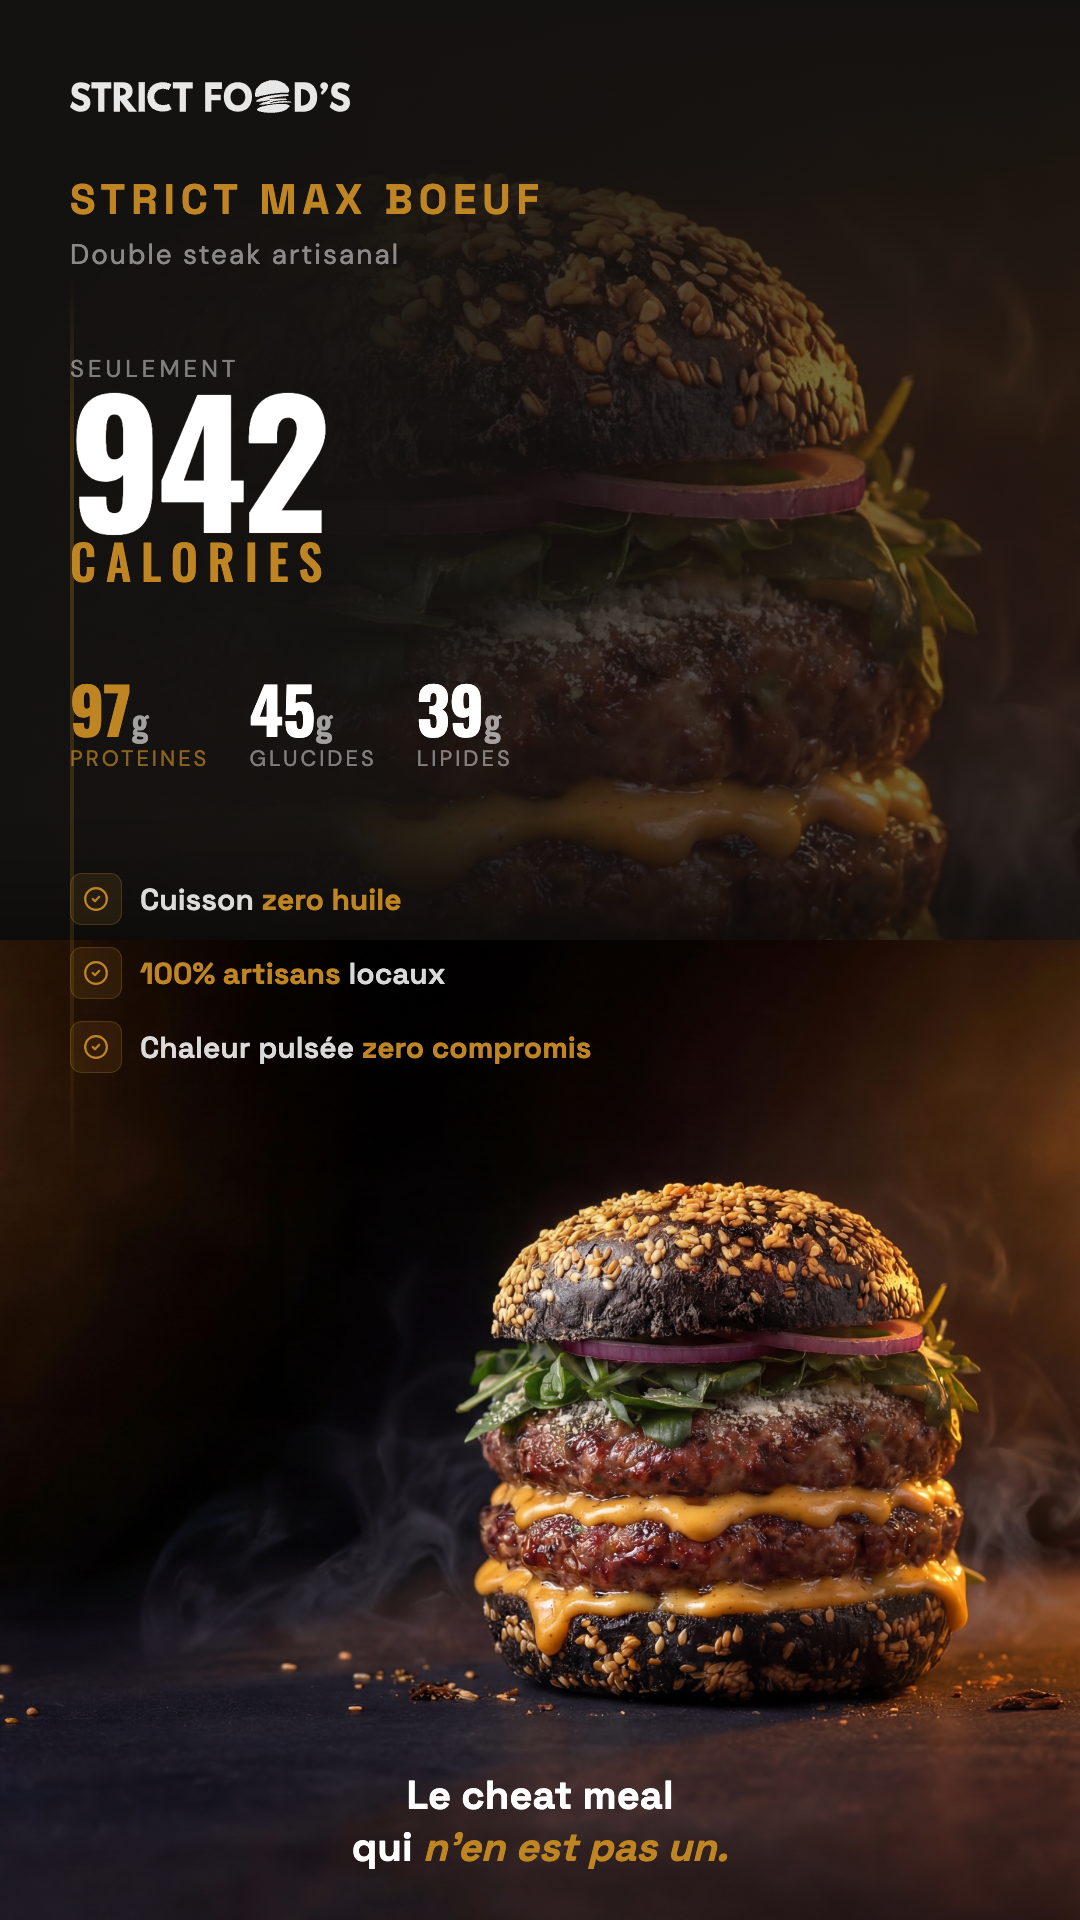
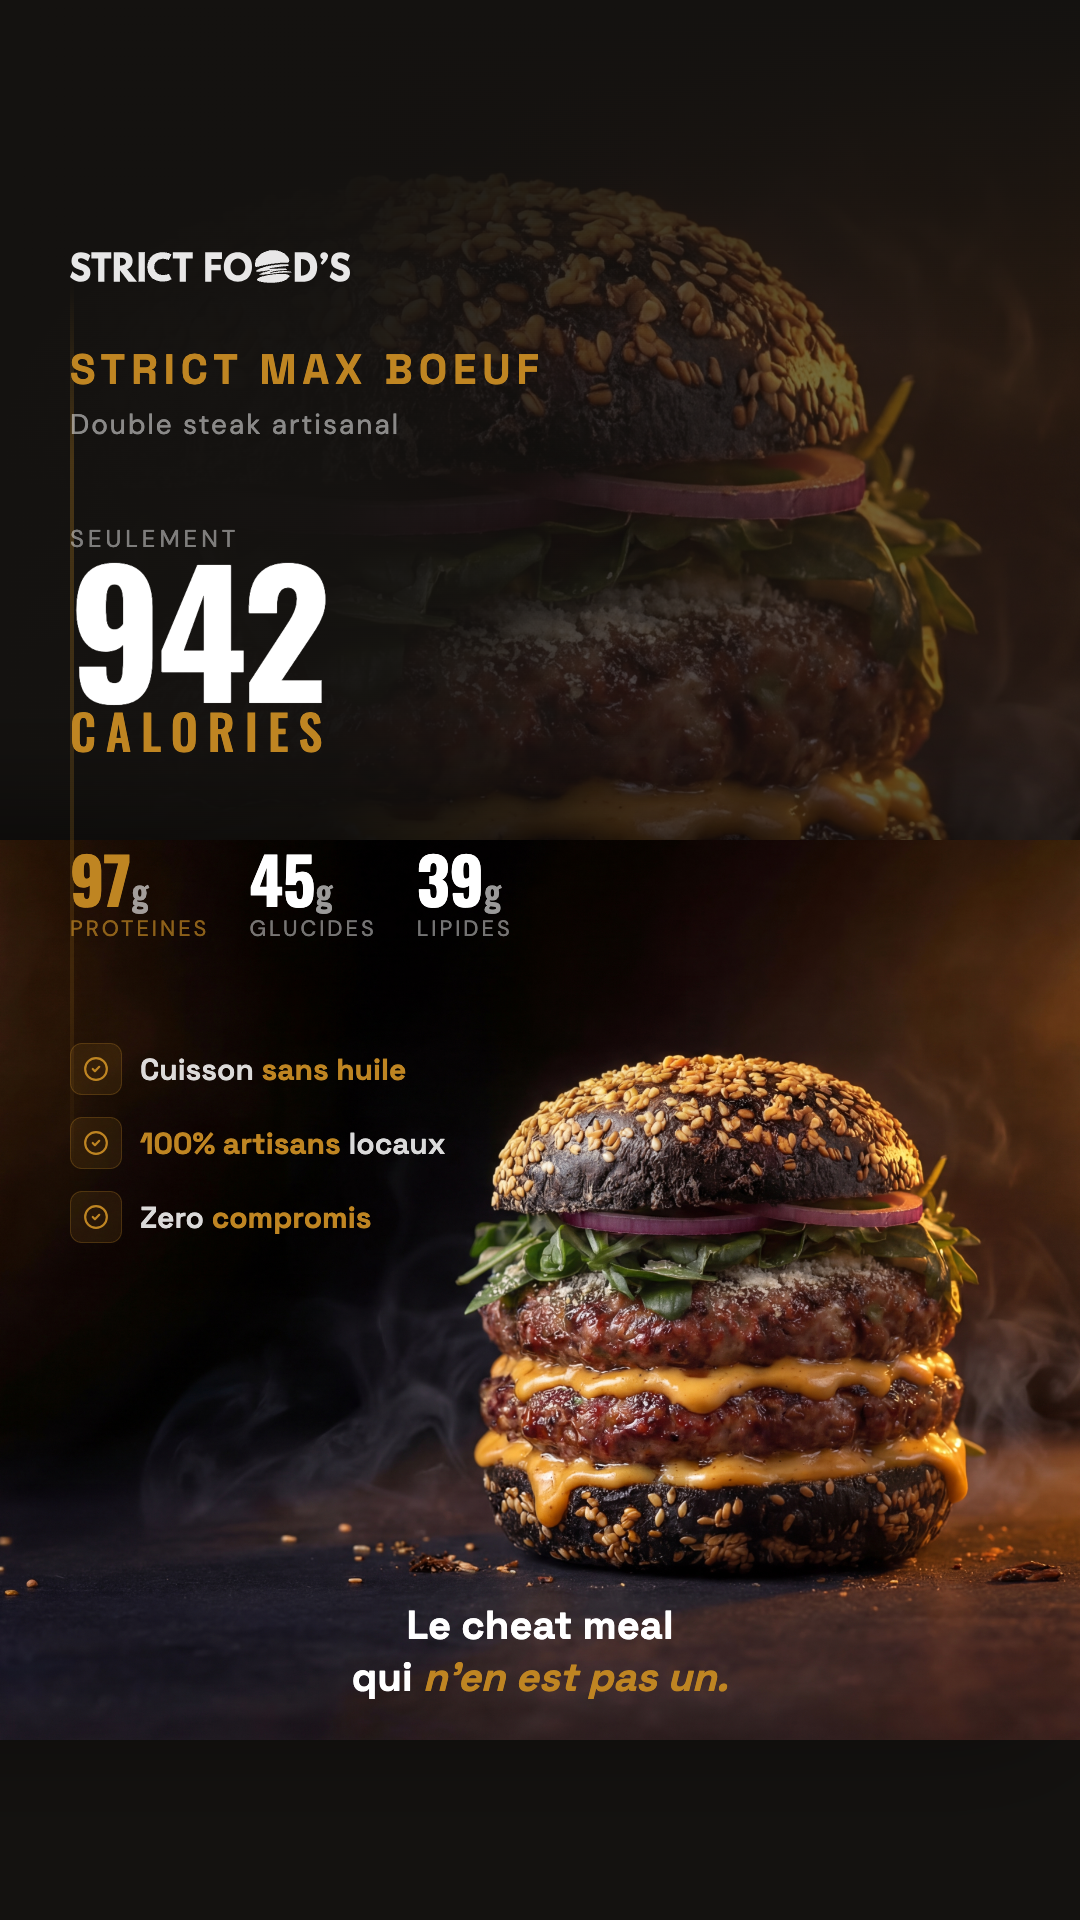
fix: safe zones Instagram + ajustements texte story v2

diff --git a/production/stories/10-03-2026/story-strict-max-boeuf-v2.html b/production/stories/10-03-2026/story-strict-max-boeuf-v2.html
@@ -40,10 +40,10 @@
     /* ===== BURGER IMAGE (entier — hero, bien visible) ===== */
     .burger-image {
       position: absolute;
-      bottom: 0;
+      bottom: 180px;
       right: 0;
       width: 1400px;
-      height: 980px;
+      height: 900px;
       object-fit: cover;
       object-position: 60% 35%;
       z-index: 5;
@@ -84,7 +84,7 @@
       z-index: 10;
       display: flex;
       flex-direction: column;
-      padding: 80px 70px;
+      padding: 250px 70px 0;
     }
 
     /* ===== LOGO ===== */
@@ -247,7 +247,7 @@
     /* ===== BOTTOM TAGLINE ===== */
     .bottom-section {
       position: absolute;
-      bottom: 30px;
+      bottom: 200px;
       left: 70px;
       right: 70px;
       z-index: 10;
@@ -303,10 +303,10 @@
 <body>
 
   <!-- Background image (dimmed) -->
-  <img class="bg-image" src="2026-03-10-black-strict-max-boeuf-wide.png" alt="">
+  <img class="bg-image" src="../../../public/images/visuels/black-strict-max-boeuf-wide.png" alt="">
 
   <!-- Foreground burger -->
-  <img class="burger-image" src="2026-03-10-black-strict-max-boeuf-wide.png" alt="STRICT MAX Boeuf">
+  <img class="burger-image" src="../../../public/images/visuels/black-strict-max-boeuf-wide.png" alt="STRICT MAX Boeuf">
 
   <!-- Gradient overlays -->
   <div class="gradient-top"></div>
@@ -377,7 +377,7 @@
             <path d="m9 12 2 2 4-4"/>
           </svg>
         </div>
-        <div class="benefit-text">Cuisson <strong>zero huile</strong></div>
+        <div class="benefit-text">Cuisson <strong>sans huile</strong></div>
       </div>
       <div class="benefit-item">
         <div class="benefit-icon">
@@ -395,7 +395,7 @@
             <path d="m9 12 2 2 4-4"/>
           </svg>
         </div>
-        <div class="benefit-text">Chaleur pulsée <strong>zero compromis</strong></div>
+        <div class="benefit-text">Zero <strong>compromis</strong></div>
       </div>
     </div>
 
